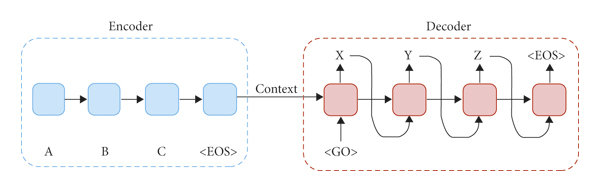
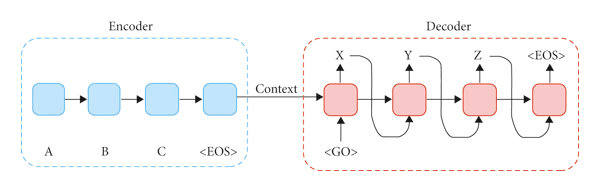
reduce files size

diff --git a/2-Textual/3-Referencial-Teorico.tex b/2-Textual/3-Referencial-Teorico.tex
@@ -31,7 +31,7 @@ ao final de uma tradução entre línguas
 
 \begin{figure}[H]
     \centering
-    \includegraphics[width=.70\textwidth]{Imagens/tokenizer-referncial-teorico.pdf}
+    \includegraphics[width=.70\textwidth]{Imagens/tokenizer-referncial-teorico_compressed.pdf}
 
     \caption{\label{fig:tokenizer-rt}Tokenização de uma frase em português}
 
@@ -97,7 +97,7 @@ probabilidades associada a cada elemento de entrada.
 
 \begin{figure}[H]
     \centering
-    \includegraphics[width=.90\textwidth]{Imagens/softmax-1-rt.pdf}
+    \includegraphics[width=.90\textwidth]{Imagens/softmax-1-rt_compressed.pdf}
     \caption{\label{fig:softmax1-rt}Conversão de pontuações em probabilidades}
     \legend{Fonte: \cite{franke2023softmax} adaptada pelo autor}
 \end{figure}
@@ -111,7 +111,7 @@ resultados. A Figura \ref{fig:softmax2-rt} ilustra essa propriedade
 
 \begin{figure}[H]
     \centering
-    \includegraphics[width=.70\textwidth]{Imagens/softmax2-rt.pdf}
+    \includegraphics[width=.70\textwidth]{Imagens/softmax2-rt_compressed.pdf}
     \caption{\label{fig:softmax2-rt}Propriedade de normalização da função softmax}
     \legend{Fonte: \cite{franke2023softmax}}
 \end{figure}
@@ -175,7 +175,7 @@ captura de relações entre palavras da língua de origem e da língua de destin
 
 \begin{figure}[H]
     \centering
-    \includegraphics[width=.70\textwidth]{Imagens/attention-rt-1.pdf}
+    \includegraphics[width=.70\textwidth]{Imagens/attention-rt-1_compressed.pdf}
     \caption{\label{fig:attention-1-rt}Tradução sem a utilização de um mecanismo de atenção}
     \legend{Fonte: \cite{raschka2023selfattention}}
 \end{figure}
@@ -186,7 +186,7 @@ palavras, resultando em traduções mais coerentes e contextualizadas.
 
 \begin{figure}[H]
     \centering
-    \includegraphics[width=.70\textwidth]{Imagens/attention-rt-2.pdf}
+    \includegraphics[width=.70\textwidth]{Imagens/attention-rt-2_compressed.pdf}
     \caption{\label{fig:attention-2-rt}Tradução com a utilização de um mecanismo de atenção}
     \legend{Fonte: \cite{raschka2023selfattention}}
 \end{figure}
@@ -211,11 +211,11 @@ tradução automática, como o MarianMT, de código aberto, e os modelos M2M e
 NLLB, também desenvolvidos pela Meta. Esses modelos representam avanços
 significativos na tarefa de tradução entre línguas, todos baseados nos
 princípios introduzidos pela arquitetura Transformer
-\cite{c4lab2023transformer}.
+\cite{build-llms-from-scratch-book}.
 
 \begin{figure}[H]
     \centering
-    \includegraphics[height=0.6\textwidth]{Imagens/transformer.pdf}
+    \includegraphics[height=0.6\textwidth]{Imagens/transformer_compressed.pdf}
     \caption{\label{fig:fig-architecture}Arquitetura transformer}
     \legend{Fonte: \cite{DBLP:journals/corr/VaswaniSPUJGKP17}}
 \end{figure}
@@ -264,7 +264,7 @@ A Figura \ref{fig:fig-positiona-encoding} ilustra o processo de aplicação do
 
 \begin{figure}[H]
     \centering
-    \includegraphics[height=0.6\textwidth]{Imagens/positional-encoding.pdf}
+    \includegraphics[height=0.6\textwidth]{Imagens/positional-encoding_compressed.pdf}
     \caption{\label{fig:fig-positiona-encoding} Exemplo de codificação posicional aplicada a uma sequência}
     \legend{Fonte: \cite{brownlee_positional_encoding} adaptado}
 \end{figure}
@@ -287,14 +287,14 @@ aplicadas de forma independente a cada posição da sequência, após o mecanism
 de atenção. Seu principal objetivo é transformar e refinar as representações
 vetoriais geradas pelas camadas de atenção, contribuindo para a modelagem de
 relações mais complexas entre os elementos da
-sequência.\cite{c4lab_transformer}
+sequência.\cite{gerber2025attentionneedimportancefeedforward}
 
 A Figura \ref{fig:fig-feed-forward} ilustra um exemplo de rede neural
 \textit{feed-forward} com uma camada oculta.
 
 \begin{figure}[H]
     \centering
-    \includegraphics[width=0.6\textwidth]{Imagens/feed-forward.pdf}
+    \includegraphics[width=0.6\textwidth]{Imagens/feed-forward_compressed.pdf}
     \caption{\label{fig:fig-feed-forward} Rede neural feed-forward}
     \legend{Fonte: \cite{geeksforgeeks_fnn} adaptado}
 \end{figure}
@@ -384,7 +384,7 @@ representações contextuais, no qual cada vetor está associado a um token da
 sequência de entrada. Esses vetores incorporam informações sobre o contexto
 global da sentença, incluindo relações entre palavras, e são posteriormente
 utilizados pelo decoder para a geração da tradução na língua de destino
-\cite{c4lab_transformer}.
+\cite{build-llms-from-scratch-book}.
 
 \subsection{Decoder}
 Decoder, ou decodificador, é o componente da arquitetura Transformer
@@ -421,7 +421,7 @@ Durante o processo de geração, o decoder produz a tradução de forma iterativ
 gerando um token por vez. A cada etapa, o token gerado é realimentado como
 entrada para o próprio decoder, juntamente com as representações do encoder,
 até que um token especial de término seja produzido, indicando o fim da
-tradução \cite{c4lab_transformer}.
+tradução \cite{build-llms-from-scratch-book}.
 
 \section{Modelos de Tradução Open Source}
 \subsection{MarianMT}